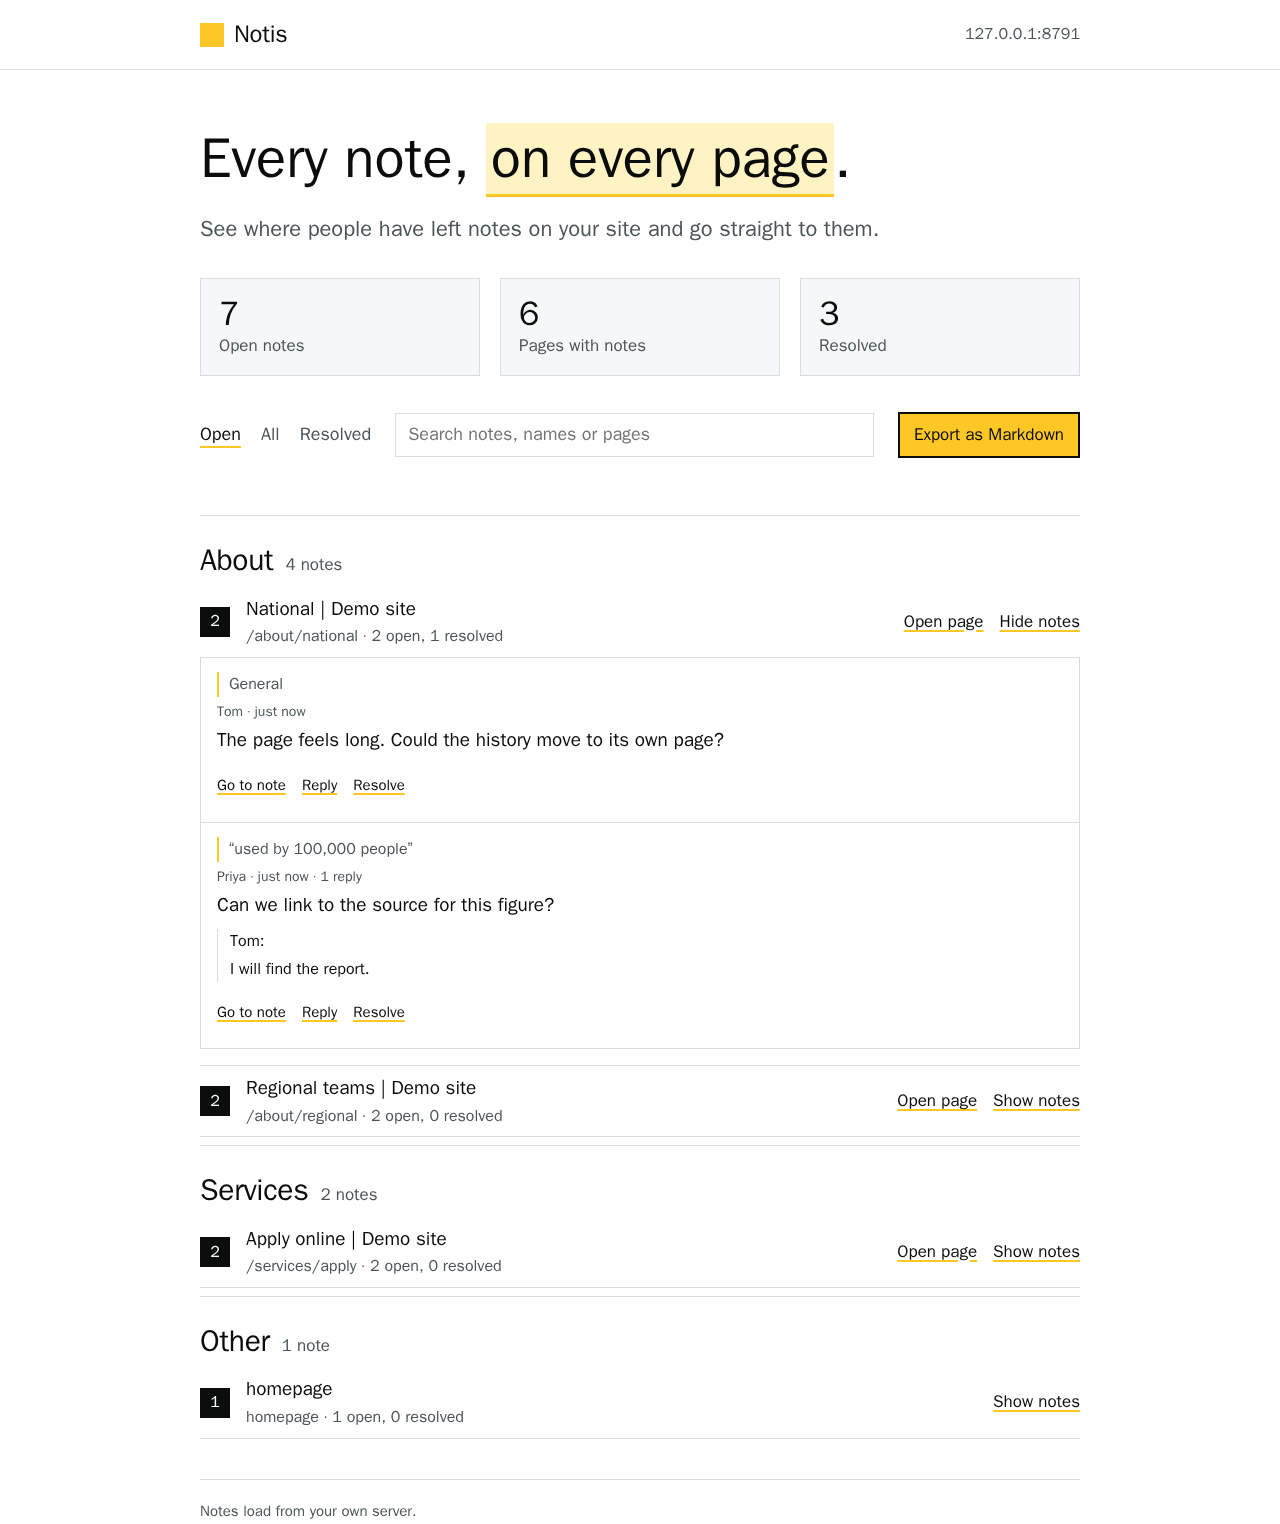
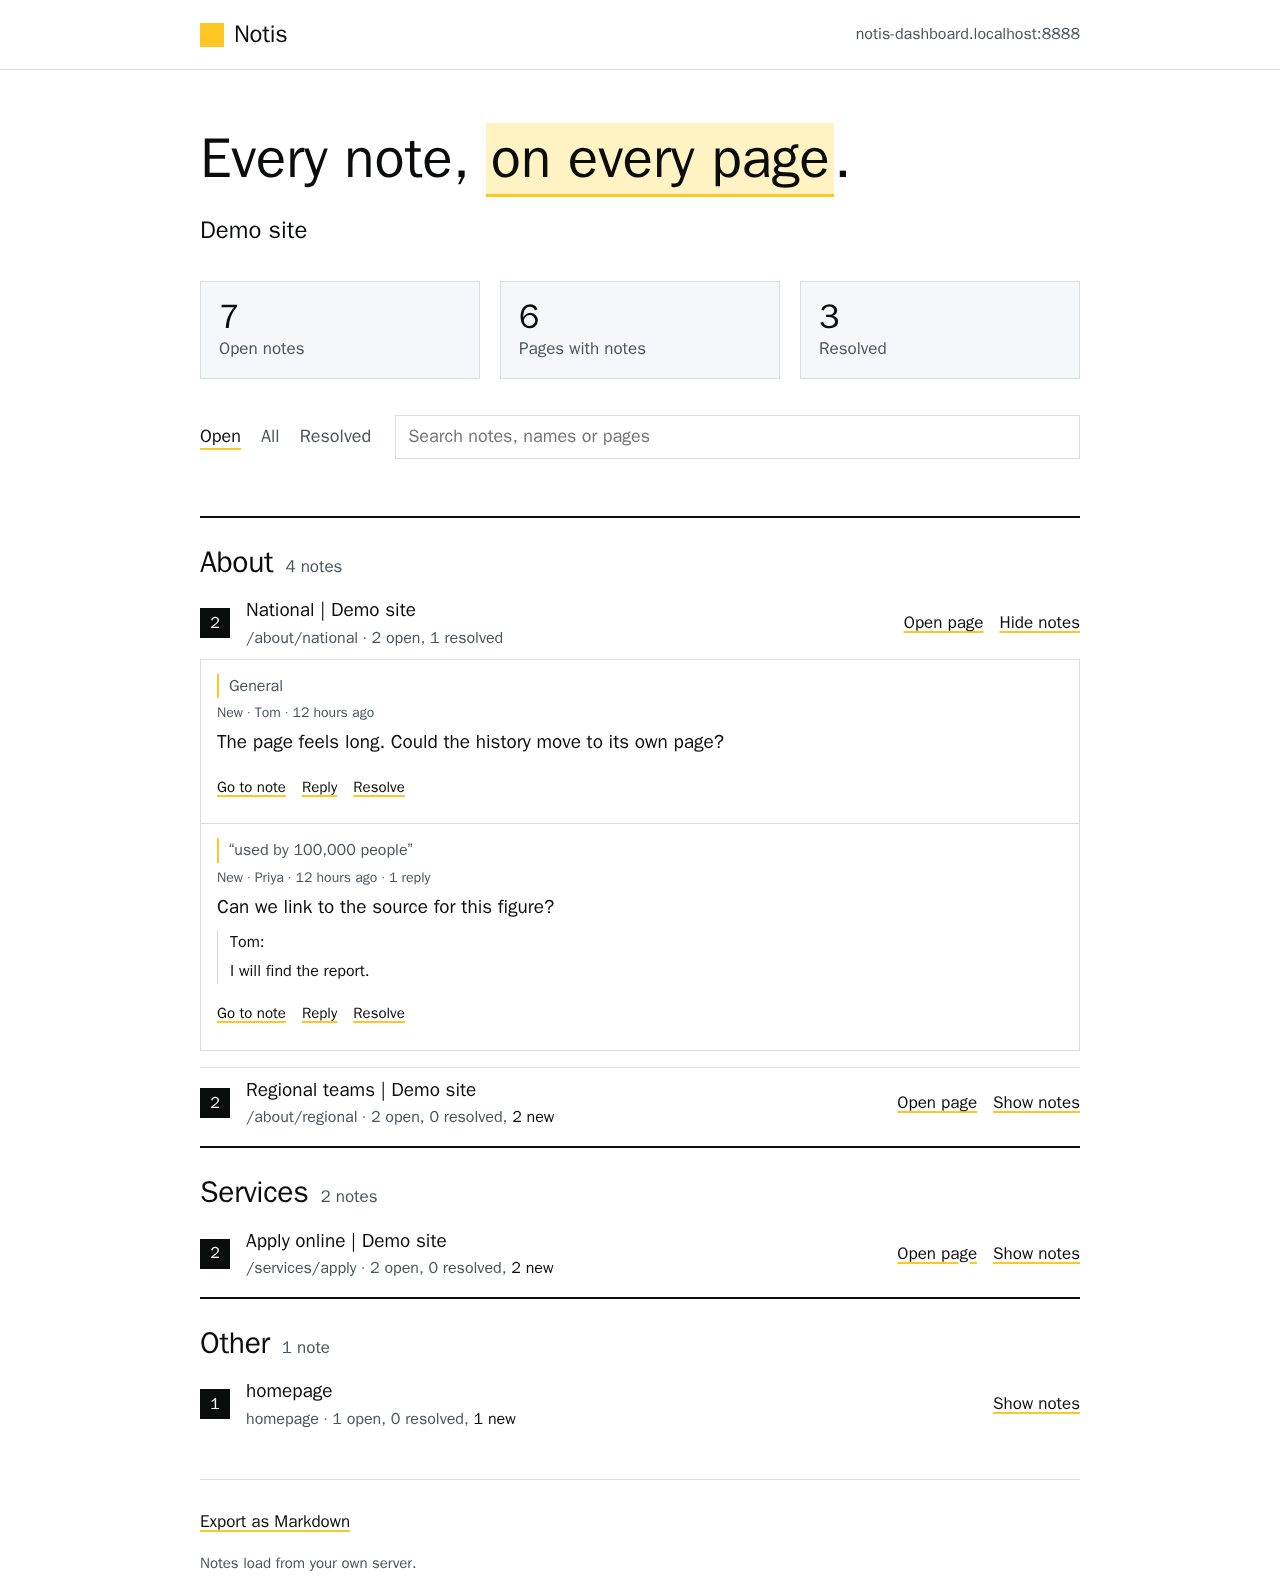
Dashboard amends: site name, new-note counts, export link, single section lines
Shows the site name under the heading in place of the intro line, moves Export
as Markdown to a link at the bottom, adds a per-browser count of notes left
since each page was last opened, and replaces the double lines between
sections with one stronger line above each heading. The summary gains openAt.

Claude-Session: https://claude.ai/code/session_01T2JMny7JoWan5dFRi6REhL

diff --git a/README.md b/README.md
@@ -170,7 +170,8 @@ Every note, on every page, in one place. The API serves a page at `/api/comments
 - **Nothing to install.** The page comes from the same server file as the API, on all four hosts. It makes no requests to anyone else, and has no tracking.
 - **Page titles and links.** The widget now sends each page's title and address with a new note. Notes left before this have neither: they appear under their path (or "Other") with no "Open page" link until someone leaves a new note on that page.
 - **Go to note** opens the page with `?notis=1` (which turns on a site that uses [reviewer activation](#options)) and `#notis-<id>`, which opens the panel on that note.
-- **Export as Markdown** copies the notes you are looking at (Open, All or Resolved) as Markdown, one heading per page.
+- **New notes.** Each page shows how many open notes were left since you last opened it in this browser. This is remembered in the browser only, not on the server.
+- **Export as Markdown**, a link at the bottom of the page, copies the notes you are looking at (Open, All or Resolved) as Markdown, one heading per page.
 - The page summary reads every note. That is fine for hundreds; with thousands, expect it to take a moment.
 
 Turn on the link in the panel with `data-dashboard="true"` or `dashboard: true` in `COMMENTS_CONFIG`.
@@ -306,7 +307,7 @@ Open an issue on GitHub: [report a bug](https://github.com/gavinwye/notis.gavinw
 |---|---|---|
 | `GET /api/comments?page=<pageId>` | | `[thread, ...]` for one page |
 | `GET /api/comments` | | every thread (admin token required) |
-| `GET /api/comments?summary=1` | | `[{ pageId, title, url, open, resolved, latest }, ...]`, one row per page, no note text (admin token, or anyone with `COMMENTS_DASHBOARD=public`) |
+| `GET /api/comments?summary=1` | | `[{ pageId, title, url, open, resolved, latest, openAt }, ...]`, one row per page (`openAt` is when each open note was left), no note text (admin token, or anyone with `COMMENTS_DASHBOARD=public`) |
 | `GET /api/comments/dashboard` | | the [notes dashboard](#notes-dashboard), an HTML page. Always served; the data calls it makes are the gated part |
 | `POST /api/comments` | `{ pageId, title?, url?, quote, prefix, suffix, author, text, pin? }` | the new thread. `url` is kept only if it starts with `/` (not `//`), `http://` or `https://` |
 | `POST /api/comments/:id/replies` | `{ author, text }` | the new reply |
